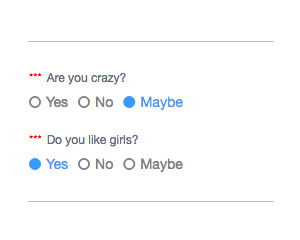
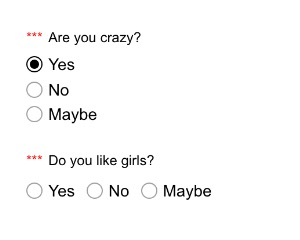
Improved j-RadioButton.

diff --git a/j-RadioButton/component.js b/j-RadioButton/component.js
@@ -1,6 +1,9 @@
-COMPONENT('radiobutton', function(self, config) {
+COMPONENT('radiobutton', 'inline:1', function(self, config) {
 
-	self.nocompile && self.nocompile();
+	var cls = 'ui-radiobutton';
+	var cls2 = '.' + cls;
+
+	self.nocompile();
 
 	self.configure = function(key, value, init) {
 		if (init)
@@ -10,20 +13,20 @@ COMPONENT('radiobutton', function(self, config) {
 				self.tclass('ui-disabled', value);
 				break;
 			case 'required':
-				self.find('.ui-radiobutton-label').tclass('ui-radiobutton-label-required', value);
+				self.find(cls2 + '-label').tclass(cls + '-label-required', value);
 				break;
 			case 'type':
 				self.type = config.type;
 				break;
 			case 'label':
-				self.find('.ui-radiobutton-label').html(value);
+				self.find(cls2 + '-label').html(value);
 				break;
 			case 'items':
 				self.find('div[data-value]').remove();
 				var builder = [];
 				value.split(',').forEach(function(item) {
 					item = item.split('|');
-					builder.push('<div data-value="{0}"><i></i><span>{1}</span></div>'.format(item[0] || item[1], item[1] || item[0]));
+					builder.push('<div data-value="{1}"><i></i><span>{0}</span></div>'.format(item[0] || item[1], item[1] || item[0]));
 				});
 				self.append(builder.join(''));
 				self.refresh();
@@ -34,8 +37,8 @@ COMPONENT('radiobutton', function(self, config) {
 	self.make = function() {
 		var builder = [];
 		var label = config.label || self.html();
-		label && builder.push('<div class="ui-radiobutton-label{1}">{0}</div>'.format(label, config.required ? ' ui-radiobutton-label-required' : ''));
-		self.aclass('ui-radiobutton{0}'.format(config.inline === false ? ' ui-radiobutton-block' : ''));
+		label && builder.push('<div class="' + cls + '-label{1}">{0}</div>'.format(label, config.required ? (' ' + cls + '-label-required') : ''));
+		self.aclass(cls + (!config.inline ? (' ' + cls + '-block') : '') + (config.disabled ? ' ui-disabled' : ''));
 		self.event('click', 'div', function() {
 			if (config.disabled)
 				return;
@@ -56,7 +59,7 @@ COMPONENT('radiobutton', function(self, config) {
 		self.find('div').each(function() {
 			var el = $(this);
 			var is = el.attrd('value') === (value == null ? null : value.toString());
-			el.tclass('ui-radiobutton-selected', is);
+			el.tclass(cls + '-selected', is);
 			el.find('.fa').tclass('fa-circle-o', !is).tclass('fa-circle', is);
 		});
 	};

diff --git a/j-RadioButton/component.css b/j-RadioButton/component.css
@@ -1,12 +1,22 @@
 .ui-radiobutton { color: black; font-size: 14px; }
 .ui-radiobutton div[data-value] { cursor: pointer; margin: 0 10px 10px 0; line-height: 16px; position: relative; display: inline-block; }
 .ui-radiobutton span { vertical-align: middle; }
-.ui-radiobutton-block div { margin-bottom: 4px; display: block; }
+.ui-radiobutton-block div[data-value] { margin-bottom: 4px; display: block; }
 .ui-radiobutton i { width: 14px; height: 14px; display: inline-block; position: relative; border-radius: 100px; border: 1px solid #A0A0A0; margin-right: 5px; vertical-align: middle; }
 .ui-radiobutton-selected i { border-color: black; }
 .ui-radiobutton-selected i:before { content: ' '; width: 8px; height: 8px; background-color: black; display: block; position: absolute; border-radius: 100px; margin: 2px 0 0 2px; }
 .ui-radiobutton-label { margin-bottom: 5px; font-size: 12px; text-align: left; }
 .ui-radiobutton-label-required:before { color: red; content: '***'; margin-right: 5px; }
-.ui-radiobutton.ui-disabled div { cursor: not-allowed; color: gray; }
+.ui-radiobutton.ui-disabled div[data-value] { cursor: not-allowed !important; color: gray; }
 .ui-radiobutton.ui-disabled .ui-radiobutton-selected { color: gray !important; }
-.ui-radiobutton.ui-disabled .ui-radiobutton-selected * { color: gray !important; }
+.ui-radiobutton.ui-disabled div[data-value] i { border-color: gray; }
+.ui-radiobutton.ui-disabled div[data-value] i:before { background-color: gray; }
+
+.ui-dark .ui-radiobutton i { border-color: #404040; background-color: #252525; }
+.ui-dark .ui-radiobutton { color: inherit; }
+.ui-dark .ui-radiobutton-selected i { border-color: white; }
+.ui-dark .ui-radiobutton-selected i:before { background-color: white; }
+.ui-dark .ui-radiobutton.ui-disabled div[data-value] { cursor: not-allowed !important; color: #606060 !important; }
+.ui-dark .ui-radiobutton.ui-disabled div[data-value] i { border-color: #404040; }
+.ui-dark .ui-radiobutton.ui-disabled div[data-value] i:before { background-color: #505050; }
+.ui-dark .ui-radiobutton.ui-disabled .ui-radiobutton-selected { color: #505050 !important; }

diff --git a/j-RadioButton/readme.md b/j-RadioButton/readme.md
@@ -2,11 +2,11 @@
 
 __Configuration__:
 
-- `items` {String} (required) needs to contain `value 1|text 1;value 2|text 2` or `text 1;text 2`
-- `required` {Boolean} (optional) enables `required`
-- `disabled` {Boolean} (optional) disables this control
-- `label` {String} (optional) can change the content (default: `innerHTML`)
-- `type` {String} (optional) can contain `number`
+- `items` {String} __required__, needs to contain `value 1|text 1;value 2|text 2` or `text 1;text 2`
+- `required` {Boolean} enables `required`
+- `disabled` {Boolean} disables this control
+- `label` {String} can change the content (default: `innerHTML`)
+- `type` {String} can contain `number`
 - `inline` {Boolean} enables/disables inline position (default: `true`)
 
 ### Author
